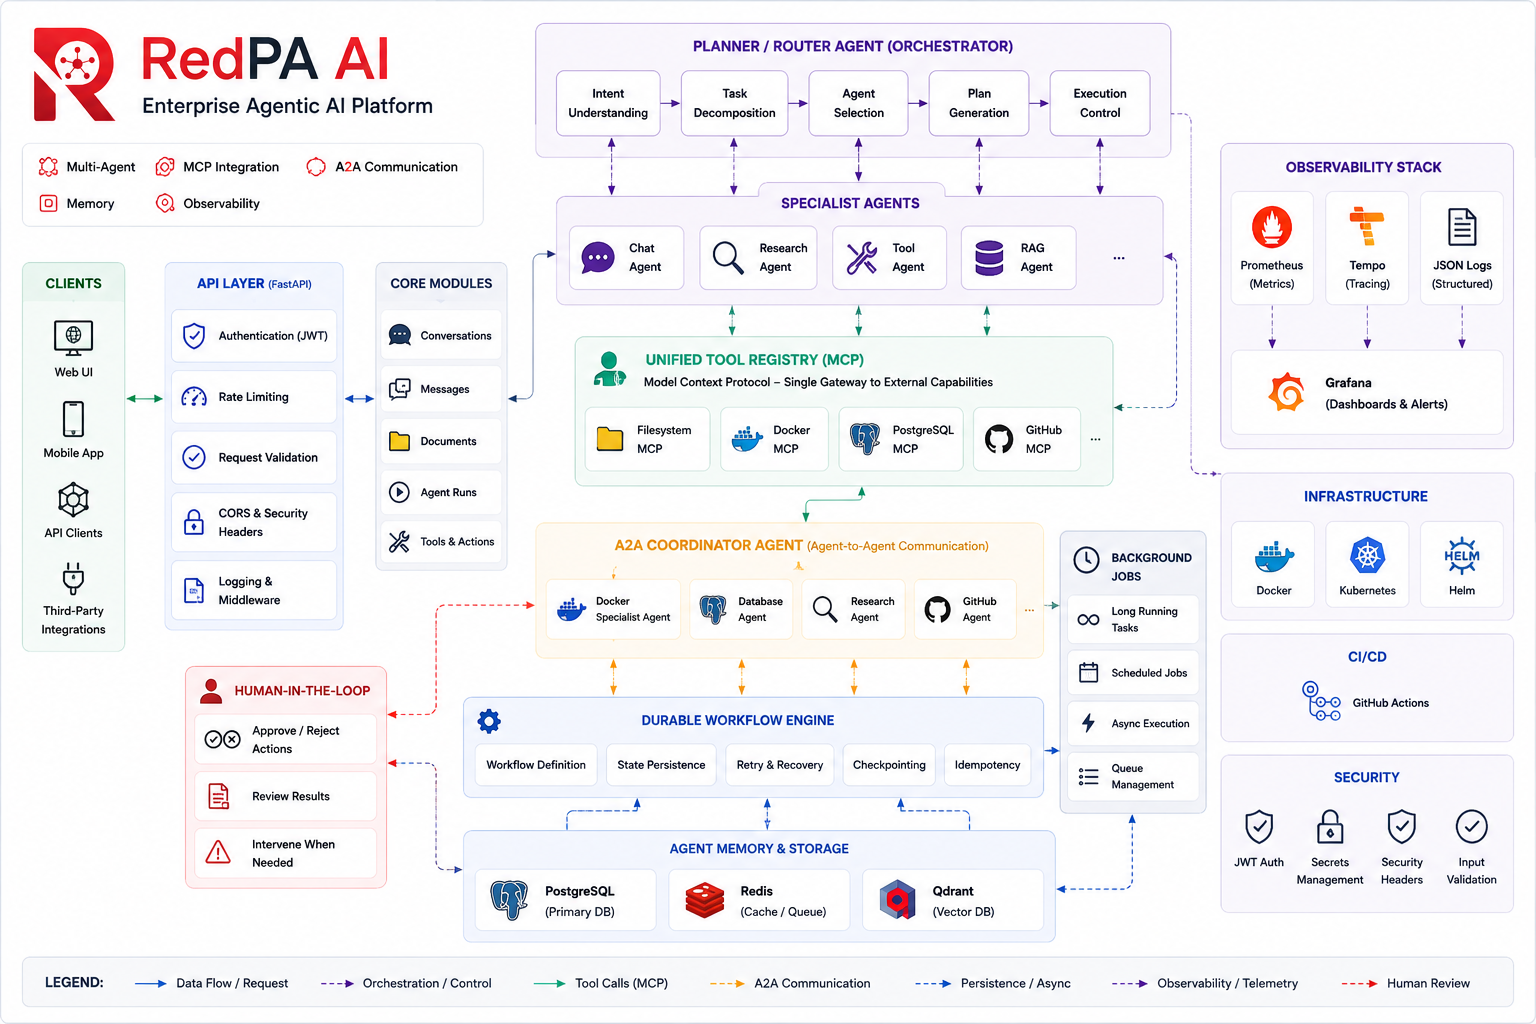
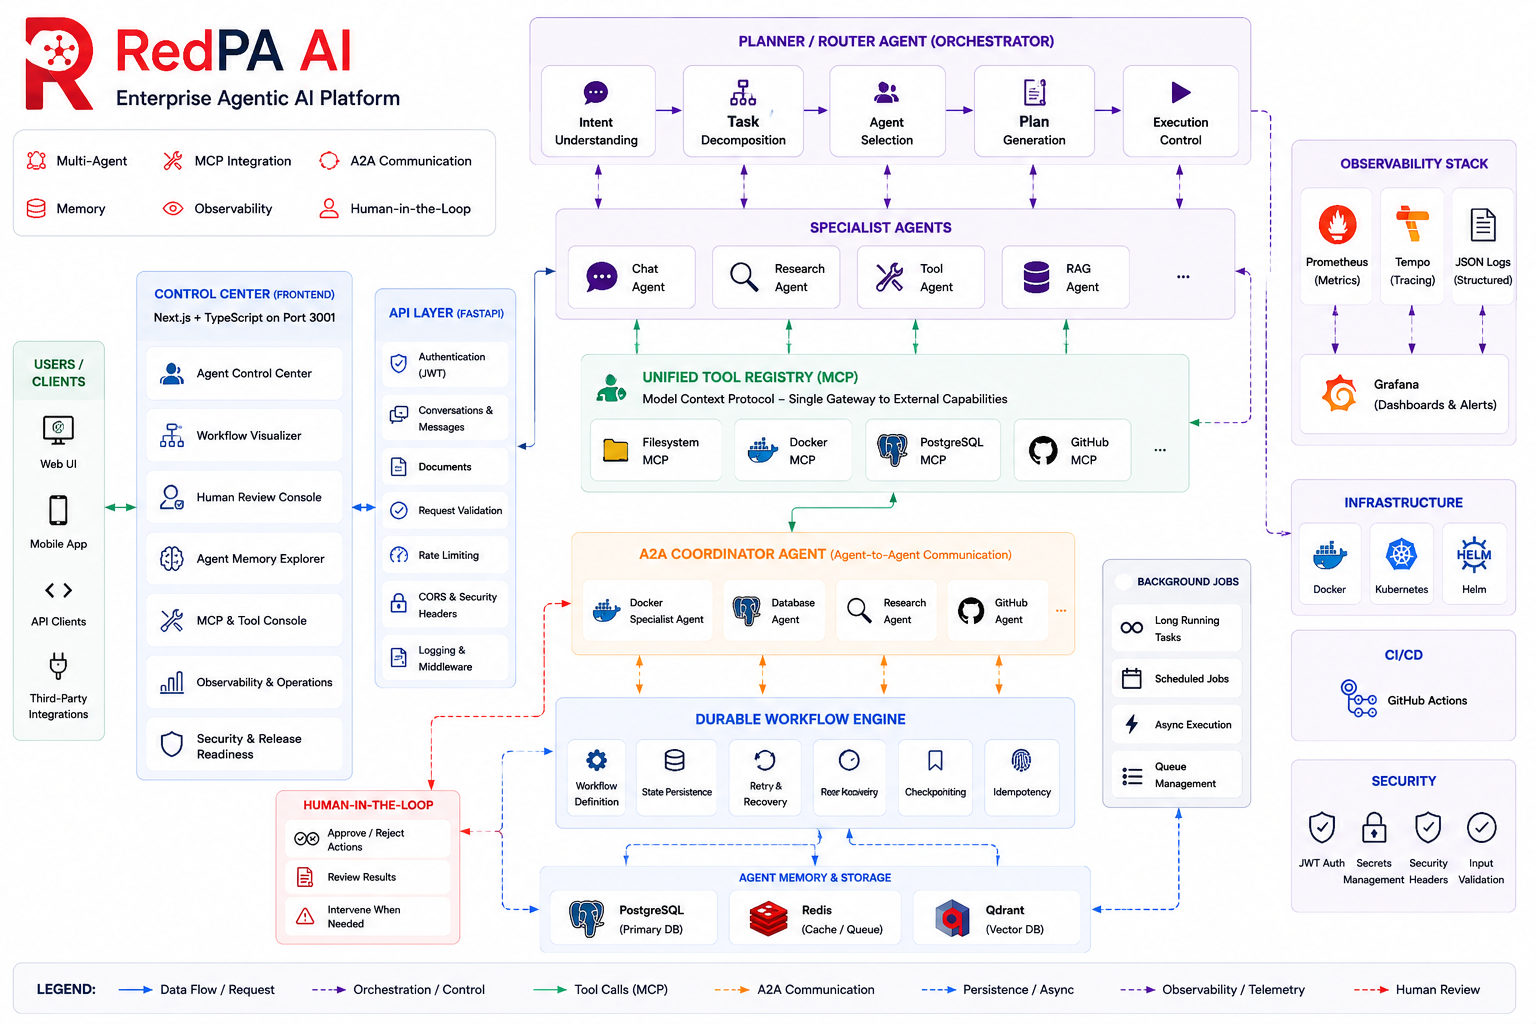
architecture

diff --git a/README.md b/README.md
@@ -255,96 +255,6 @@ RedPA AI provides these capabilities as one integrated platform.
 
 ------------------------------------------------------------------------
 
-## Architecture
-
-``` mermaid
-flowchart TB
-    Client[Client / API Consumer]
-
-    subgraph API["FastAPI Platform"]
-        Auth[Authentication]
-        Conversations[Conversations & Messages]
-        Planner[Planner / Router]
-        Reviews[Human Review]
-        Jobs[Background Jobs API]
-        Health[Health & Performance APIs]
-    end
-
-    subgraph Agents["Agent Runtime"]
-        ChatAgent[Chat Agent]
-        RagAgent[RAG Agent]
-        ResearchAgent[Research Agent]
-        ToolAgent[Tool Agent]
-        Coordinator[A2A Coordinator]
-    end
-
-    subgraph Specialists["Remote Specialist Agents"]
-        ResearchSpecialist[Research Specialist]
-        PostgresSpecialist[PostgreSQL Specialist]
-        DockerSpecialist[Docker Specialist]
-        FilesystemSpecialist[Filesystem Specialist]
-        GitHubSpecialist[GitHub Specialist]
-    end
-
-    subgraph MCP["MCP Tool Layer"]
-        FilesystemMCP[Filesystem MCP]
-        GitHubMCP[GitHub MCP]
-        PostgresMCP[PostgreSQL MCP]
-        DockerMCP[Docker MCP]
-    end
-
-    subgraph Runtime["Workflow & Runtime Services"]
-        Durable[Durable Workflows]
-        Memory[Agent Memory]
-        Worker[Background Worker]
-        Scheduler[Scheduler]
-        Redis[Redis]
-    end
-
-    subgraph Storage["Data Layer"]
-        Postgres[(PostgreSQL)]
-        Qdrant[(Qdrant)]
-    end
-
-    subgraph Observability["Observability"]
-        Prometheus[Prometheus]
-        Grafana[Grafana]
-        Collector[OpenTelemetry Collector]
-        Tempo[Tempo]
-    end
-
-    Client --> API
-    Planner --> ChatAgent
-    Planner --> RagAgent
-    Planner --> ResearchAgent
-    Planner --> ToolAgent
-    Planner --> Coordinator
-
-    Coordinator --> Specialists
-    ToolAgent --> MCP
-    Reviews --> Durable
-    Agents --> Durable
-    Durable --> Memory
-    Jobs --> Worker
-    Scheduler --> Worker
-    Worker --> Redis
-
-    Conversations --> Postgres
-    Durable --> Postgres
-    Memory --> Postgres
-    Memory --> Qdrant
-    RagAgent --> Qdrant
-    MCP --> Postgres
-
-    API --> Prometheus
-    Agents --> Collector
-    Collector --> Tempo
-    Prometheus --> Grafana
-    Tempo --> Grafana
-```
-
-------------------------------------------------------------------------
-
 ## System Components
 
 ### FastAPI Backend
